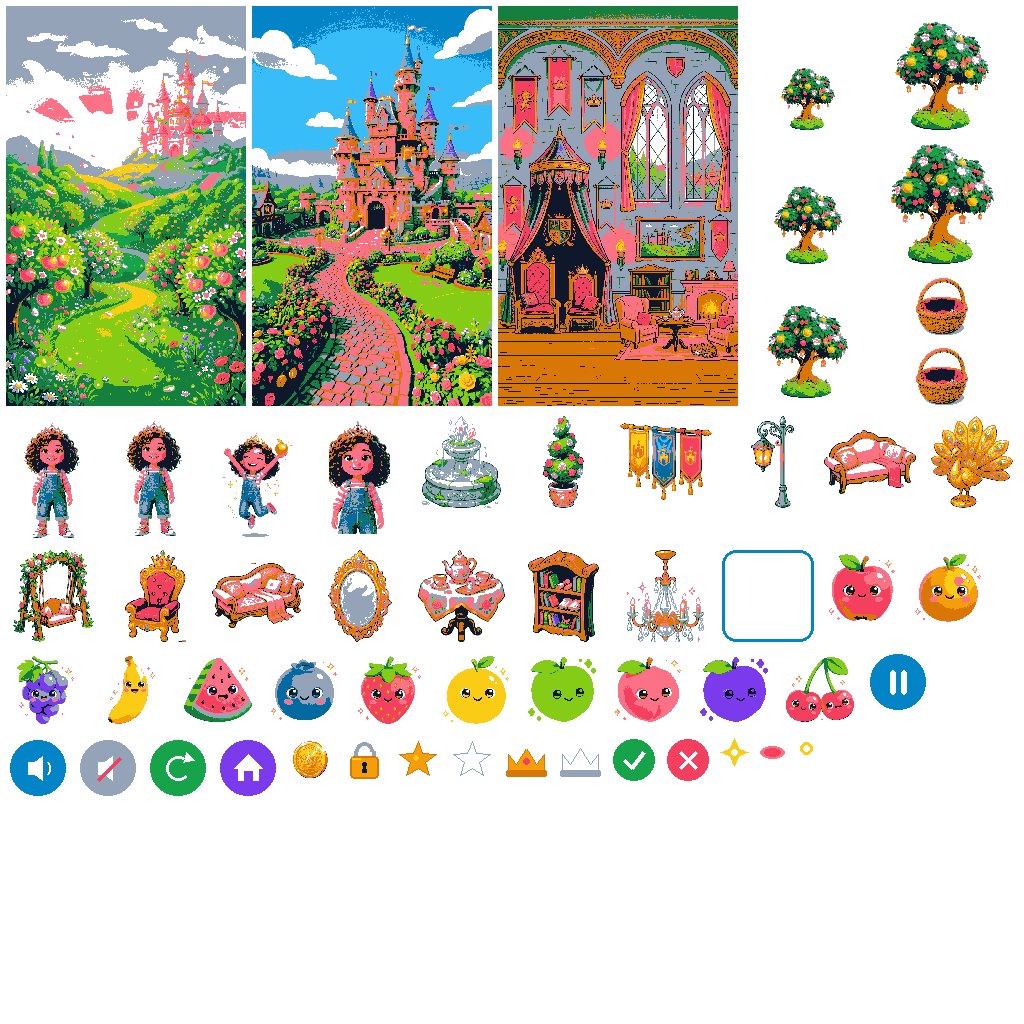
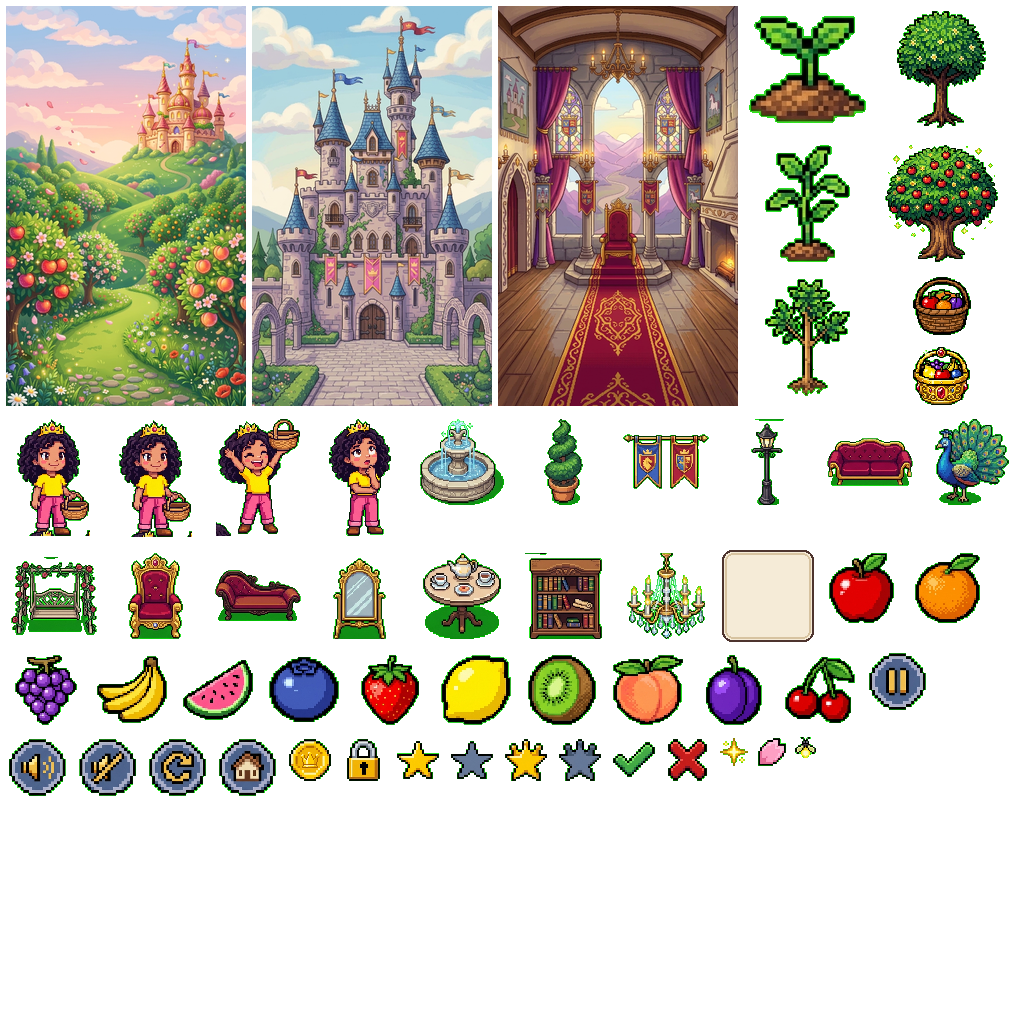
feat(graphics): rebuild all game assets as authentic handcrafted 16-bit retro pixel art

diff --git a/scripts/assemble_atlas.py b/scripts/assemble_atlas.py
@@ -1,0 +1,31 @@
+#!/usr/bin/env python3
+import json
+import os
+from PIL import Image
+
+SPRITES_DIR = '/tmp/processed_16bit/sprites'
+ATLAS_JSON = 'public/assets/atlas.json'
+ATLAS_PNG = 'public/assets/atlas.png'
+
+with open(ATLAS_JSON, 'r') as f:
+    atlas_data = json.load(f)
+
+meta_w = atlas_data['meta']['size']['w']
+meta_h = atlas_data['meta']['size']['h']
+
+canvas = Image.new('RGBA', (meta_w, meta_h), (0, 0, 0, 0))
+
+frames = atlas_data['frames']
+for name, item in frames.items():
+    fr = item['frame']
+    sprite_path = os.path.join(SPRITES_DIR, f'{name}.png')
+    if not os.path.exists(sprite_path):
+        raise FileNotFoundError(f'Missing sprite: {sprite_path}')
+    sprite = Image.open(sprite_path).convert('RGBA')
+    if sprite.size != (fr['w'], fr['h']):
+        raise ValueError(f'Dimension mismatch for {name}: {sprite.size} vs expected ({fr["w"]}, {fr["h"]})')
+    canvas.paste(sprite, (fr['x'], fr['y']), sprite)
+    print(f'Pasted {name} at ({fr["x"]}, {fr["y"]}) size=({fr["w"]}, {fr["h"]})')
+
+canvas.save(ATLAS_PNG, format='PNG', optimize=True)
+print(f'Successfully assembled {ATLAS_PNG} ({meta_w}x{meta_h}) with {len(frames)} frames.')
